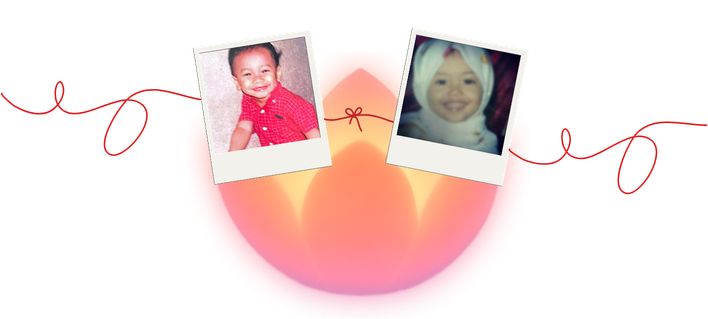
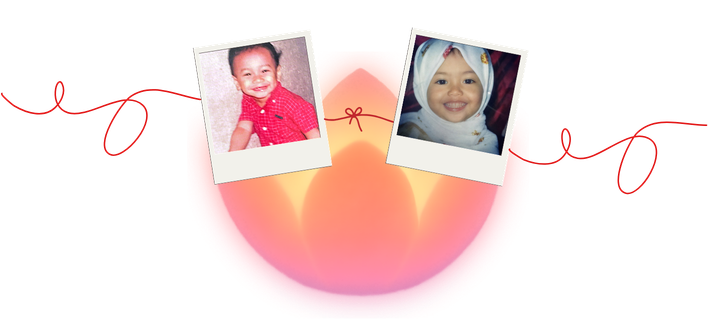
front page

Changed region(s): [[0.5593, 0.1129, 0.7147, 0.4796]]

diff --git a/rsvpv2/components/Entrance.tsx b/rsvpv2/components/Entrance.tsx
@@ -337,6 +337,21 @@ export function Entrance() {
                 style={{ display: "block", pointerEvents: "none" }}
               />
             </motion.span>
+
+            <span
+              aria-hidden
+              className="block mt-1"
+              style={{
+                color: "var(--highlight)",
+                fontFamily: "var(--font-serif)",
+                fontSize: "clamp(0.85rem, 2.8vw, 1.1rem)",
+                letterSpacing: "0.08em",
+                lineHeight: 1.2,
+                pointerEvents: "none",
+              }}
+            >
+              #DanishamiEternity
+            </span>
           </motion.button>
         )}
       </AnimatePresence>
